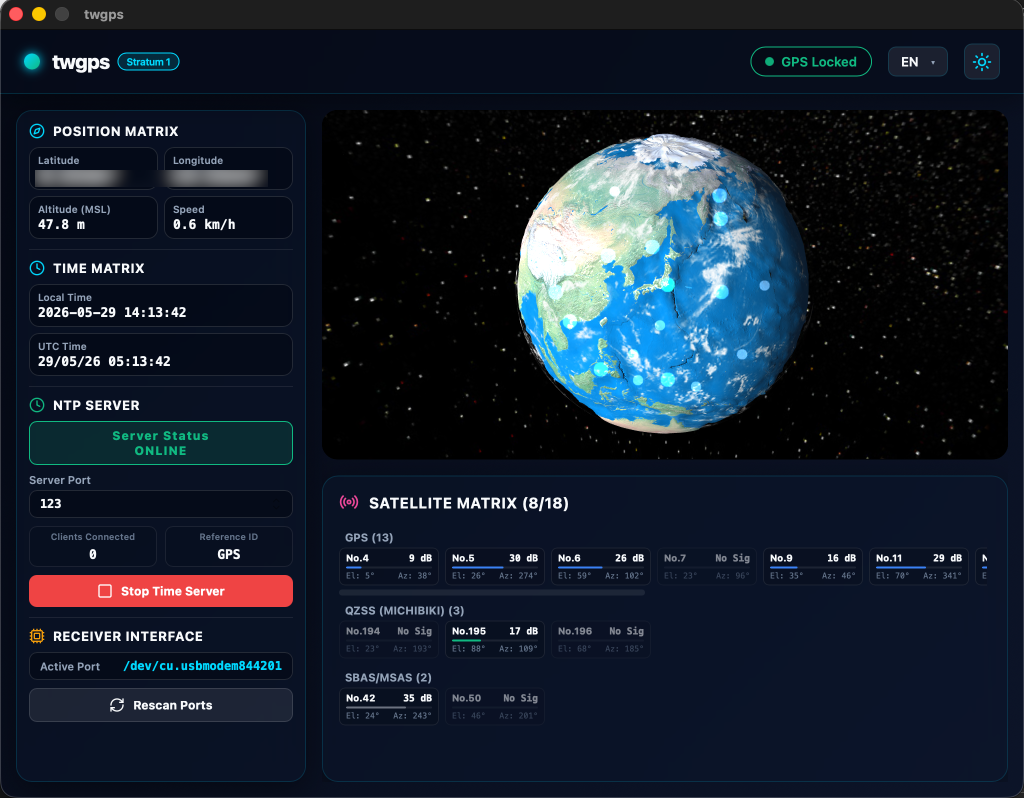
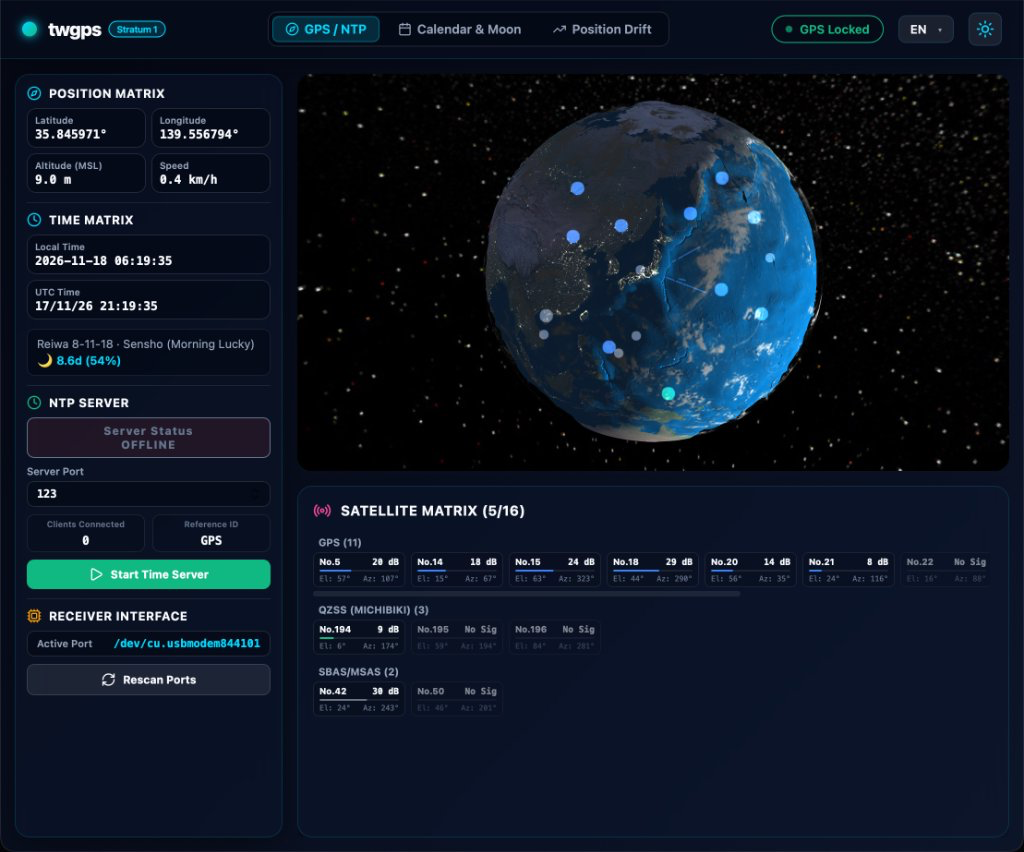
chore: release v0.2.0

diff --git a/frontend/src/i18n.svelte.js b/frontend/src/i18n.svelte.js
@@ -87,6 +87,105 @@ const translations = {
       trendLine: "Trend",
       noData: "Waiting for valid GPS fix to record position history...",
       note: "Vector components (ΔN, ΔE, ΔAlt) are averaged per bucket so random noise cancels out over long periods."
+    },
+    cal: {
+      liveMode: "Live (GPS / System)",
+      customMode: "Custom Date & Location",
+      resetLive: "Reset to Live Time",
+      dateTime: "Date / Time",
+      latitude: "Latitude",
+      longitude: "Longitude",
+      usingGpsLoc: "GPS Fix Location",
+      usingDefaultLoc: "Default Location (Tokyo)",
+      japaneseTitle: "Japanese Koyomi & Traditional Almanac",
+      worldTitle: "World Calendars (Fourmilab)",
+      wareki: "Wareki (Era)",
+      koki: "Koki (Imperial Year)",
+      kyureki: "Kyureki (Tenpo Lunisolar)",
+      leapMonth: "Leap ",
+      rokuyo: "Rokuyo",
+      solarTerm: "24 Solar Terms",
+      nextTerm: "Next",
+      zassetsu: "Zassetsu",
+      etoYear: "Year Eto",
+      etoMonth: "Month Eto",
+      etoDay: "Day Eto",
+      natchin: "Natchin",
+      kyuseiYear: "Year Nine Star",
+      kyuseiDay: "Day Nine Star",
+      junichoku: "Junichoku",
+      nijuhasshuku: "28 Mansions",
+      senjitsu: "Senjitsu (Auspicious/Inauspicious)",
+      none: "None",
+      gregorian: "Gregorian Calendar",
+      julian: "Julian Calendar",
+      julianDay: "Julian Day (JD)",
+      mjd: "Modified Julian Day (MJD)",
+      isoWeek: "ISO Week Date / Day of Year",
+      hebrew: "Hebrew Calendar",
+      islamic: "Islamic (Hijri) Calendar",
+      persian: "Persian (Iranian) Calendar",
+      bahai: "Bahá'í Calendar",
+      indian: "Indian National (Saka) Calendar",
+      french: "French Republican Calendar",
+      mayan: "Mayan Calendar (Long Count / Haab / Tzolkin)",
+      beforeEpoch: "Before Epoch"
+    },
+    moon: {
+      title: "Moon Phase & Position",
+      skyDomeTitle: "Sky Dome (Azimuth / Altitude)",
+      observerOrientation: "Observer Tilt",
+      northUpOrientation: "Celestial North Up",
+      age: "Moon Age",
+      noonAge: "Noon Moon Age",
+      days: "days",
+      illumination: "Illumination",
+      distance: "Geocentric Distance",
+      angularSize: "Angular Size",
+      azimuth: "Azimuth",
+      altitude: "Altitude",
+      belowHorizon: "Below Horizon",
+      aboveHorizon: "Above Horizon",
+      moonrise: "Moonrise",
+      moonTransit: "Moon Transit",
+      moonset: "Moonset",
+      sunrise: "Sunrise",
+      solarNoon: "Solar Noon",
+      sunset: "Sunset",
+      dayLength: "Day Length",
+      nextPhases: "Upcoming Moon Phases",
+      sunLabel: "Sun",
+      moonLabel: "Moon",
+      phases: {
+        new: "New Moon",
+        waxingCrescent: "Waxing Crescent",
+        firstQuarter: "First Quarter",
+        waxingGibbous: "Waxing Gibbous",
+        full: "Full Moon",
+        waningGibbous: "Waning Gibbous",
+        thirdQuarter: "Third Quarter",
+        waningCrescent: "Waning Crescent"
+      },
+      trad: {
+        shingetsu: "Shingetsu (New Moon)",
+        sengetsu: "Sengetsu",
+        mikazuki: "Mikazuki (Crescent)",
+        jogen: "Jogen (First Quarter)",
+        tokaya: "Tokaya",
+        jusanya: "Jusanya",
+        komochizuki: "Komochizuki",
+        mangetsu: "Mangetsu (Full Moon)",
+        izayoi: "Izayoi",
+        tachimachizuki: "Tachimachizuki",
+        imachizuki: "Imachizuki",
+        nemachizuki: "Nemachizuki",
+        fukemachizuki: "Fukemachizuki",
+        kagen: "Kagen (Third Quarter)",
+        ariakezuki: "Ariakezuki",
+        tsugomori: "Tsugomori",
+        waxing: "Waxing",
+        waning: "Waning"
+      }
     }
   },
   ja: {

diff --git a/README_ja.md b/README_ja.md
@@ -25,30 +25,50 @@
 
 ## 主な機能
 
-- **GPS 受信機の自動検出**: すべてのシリアル/USB ポートを一般的なボーレート（115200 および 9600 bps）で自動スキャンし、GPS 受信機を見つけて NMEA センチネルの解析を開始します。
-- **衛星情報の視覚表示**: 以下の衛星システムのアクティブな衛星番号（PRN）、仰角、方位角、信号強度（SNR）を追跡して表示します：
+- **GPS 受信機の自動検出**: すべてのシリアル/USB ポートを一般的なボーレート（115200 および 9600 bps）で自動スキャンし、GPS 受信機を見つけて NMEA センテンスの解析を開始します。
+- **衛星情報の視覚表示（3D 地球儀 / 2D スカイプロット）**: 以下の衛星システムのアクティブな衛星番号（PRN）、仰角、方位角、信号強度（SNR）をインタラクティブな 3D 地球儀（WebGL 非対応環境では自動的に 2D スカイプロットへフォールバック）で追跡・表示します：
   - **GPS** (アメリカ)
   - **GLONASS** (ロシア)
   - **Galileo** (欧州)
   - **BeiDou** (中国)
   - **みちびき / QZSS** (日本)
   - **SBAS / MSAS** (衛星静止基準補正システム)
+- **静止判定による速度ノイズ除去**: GPS 測位の微小な揺らぎによる速度のふらつきをフィルタリングし、静止状態を判定して「静止」バッジと安定した速度を表示します。
 - **内蔵 Stratum 1 NTP サーバー**:
   - GPS 衛星クロックに同期した高精度な時刻を提供。
   - デフォルトで標準の NTP ポートである `123` を使用（任意のポートに変更可能）。
   - 稼働時は基準識別子として `"GPS "` が設定された Stratum 1 NTP 応答を行います。
   - GPS 受信機の測位（3D Fix）が失われた場合は、自動的にシステム時刻を用いた応答へフォールバックします。
-- **モダンなユーザーインターフェース**: リアルタイムに更新されるレスポンシブなダッシュボードと、多言語対応（英語・日本語）を備えています。
+- **暦・月ビュー** *(v0.2.0 で追加)*:
+  - GPS の高精度な時刻・測位座標（または任意の日時・地点）に基づき、各種暦と天文情報を表示します。
+  - **世界の暦**: グレゴリオ暦、ユリウス暦、ユリウス通日（JD）、修正ユリウス日（MJD）、ISO 週日付、ユダヤ暦、イスラム暦（ヒジュラ暦）、ペルシャ暦、バハーイー暦、インド国定暦（サカ暦）、フランス共和暦、マヤ暦。
+  - **日本のこよみ・伝統暦注**: 和暦、皇紀、旧暦（天保暦準拠）、六曜、二十四節気・次節、雑節、干支（年・月・日）、納音、九星（年・日）、十二直、二十八宿、選日・吉凶日。
+  - **月の見え方と全天位置図**: 現在月齢・正午月齢、輝面比、地心距離、視直径、月相グラフィック、今後の主な月相、太陽・月の出没/南中時刻、および方位角・高度の全天位置図を表示します。
+- **長期位置安定性・ドリフト監視** *(v0.2.0 で追加)*:
+  - 測位履歴を記録し、基準点からの変位（南北 ΔN・東西 ΔE・高度 ΔAlt）を時間バケットごとに平均化することで、長期稼働時のランダム誤差を相殺し数ミリ単位の変位傾向を捉えます。
+  - **1時間（秒）**・**24時間（分）**・**30日（時間）**・**全期間（日）** のタイムスケール切り替え、2D 位置分布（東西×南北）散布図、年次推定移動トレンドの算出に対応。
+  - 基準点の再設定および **CSV 出力** 機能を備えています。
+- **モダンなユーザーインターフェース**: リアルタイムに更新されるレスポンシブなダッシュボード（ダーク/ライトテーマ対応）と、多言語対応（英語・日本語）を備えています。
+
+---
+
+## スクリーンショット
+
+### 暦・月ビュー
+![暦・月ビュー](images/screenshot_calendar_ja.png)
+
+### 長期位置安定性・ドリフト監視
+![長期位置安定性・ドリフト監視](images/screenshot_drift_ja.png)
 
 ---
 
 ## インストール方法
 
-GitHub の Releases ページから、ビルド済みのバイナリをダウンロードできます。
+[GitHub の Releases ページ](https://github.com/twsnmp/twgps/releases)から、ビルド済みのバイナリをダウンロードできます。
 
 - **Windows**: `.zip` アーカイブをダウンロードして展開し、`twgps.exe` を実行してください。
 - **Linux**: `.tar.gz` アーカイブをダウンロードして展開し、バイナリを実行してください。権限やグラフィックスの設定については、後述の [Linux での使用時の設定](#linux-での使用時の設定) をご覧ください。
-- **macOS**: `.app` またはディスクイメージをダウンロードし、アプリケーションフォルダーへコピーして実行してください。
+- **macOS**: `.pkg` インストーラー（または `.app` バンドル）をダウンロードし、`/Applications` フォルダーへインストールして実行してください。
 
 ---
 
@@ -60,8 +80,11 @@ GitHub の Releases ページから、ビルド済みのバイナリをダウン
 4. **測位の完了**: GPS 受信機が衛星を捕捉し測位（Fix）するまで待ちます。測位が完了すると、経緯度、高度、正確な UTC 時刻がダッシュボードに表示されます。
 5. **NTP サーバーの起動**:
    - 動作させたいポート番号を入力します（デフォルトは `123`）。
-   - **Start NTP** ボタンをクリックします。
+   - **タイムサーバー起動** ボタンをクリックします。
    - *注意*: Linux や macOS で標準の `123` ポートを使用するには、特権が必要です。後述の [Linux での使用時の設定](#linux-での使用時の設定) を参照してください。
+6. **追加ビューの活用**:
+   - **暦・月**: 上部ナビゲーションの「暦・月」タブに切り替えると、世界の暦、日本のこよみ、月齢や月の全天位置図を確認できます。
+   - **位置ドリフト**: 「位置ドリフト」タブでは、基準点からの長期的な位置変位の推移、2D 位置分布、年次推定移動トレンドの確認や CSV 出力を行えます。
 
 ---
 

diff --git a/README.md b/README.md
@@ -26,29 +26,49 @@ To use this software, you need a compatible USB NMEA GPS receiver.
 ## Features
 
 - **Automatic GPS Receiver Detection**: Automatically scans all serial/USB ports at common baud rates (115200 and 9600 bps) to locate your GPS receiver and start parsing NMEA sentences.
-- **Satellite Constellation Visualization**: Tracks and displays active satellites, elevation, azimuth, and Signal-to-Noise Ratio (SNR) for:
+- **Satellite Constellation Visualization (3D Globe / 2D Skyplot)**: Tracks and displays active satellites, elevation, azimuth, and Signal-to-Noise Ratio (SNR) on an interactive 3D globe (with automatic 2D skyplot fallback on environments without WebGL):
   - **GPS** (USA)
   - **GLONASS** (Russia)
   - **Galileo** (EU)
   - **BeiDou** (China)
   - **QZSS / Michibiki** (Japan)
   - **SBAS / MSAS** (Augmentation systems)
+- **Stationary Speed Detection**: Filters minor GPS position jitter to detect stationary state, displaying a `Stationary` badge and stabilized speed readout.
 - **Built-in Stratum 1 NTP Server**:
   - Serves high-precision time synced with GPS satellite clocks.
   - Defaults to the standard NTP port `123` (or customizable ports).
   - Flags Stratum 1 with the `"GPS "` reference identifier when active.
   - Automatically falls back to system time if the GPS receiver loses its 3D fix.
-- **Modern User Interface**: A responsive dashboard with real-time updates and multi-language support (English and Japanese).
+- **Calendar & Moon View** *(New in v0.2.0)*:
+  - Uses live GPS time and coordinates (or any custom date/time and location) to display astronomical and calendar details.
+  - **World Calendars**: Gregorian, Julian, Julian Day (JD), Modified Julian Day (MJD), ISO Week Date, Hebrew, Islamic (Hijri), Persian, Bahá'í, Indian National (Saka), French Republican, and Mayan calendars.
+  - **Japanese Koyomi (Traditional Almanac)**: Wareki (Era), Koki, Kyureki (Lunisolar), Rokuyo, 24 Solar Terms, Zassetsu, Sexagenary Cycle (Eto), Natchin, Nine Star Ki, Junichoku, 28 Mansions, and Senjitsu.
+  - **Lunar & Solar Sky Dome**: Displays moon age, illumination, geocentric distance, angular size, phase graphic, upcoming moon phases, rise/transit/set times, and an interactive sky dome chart for the Sun and Moon.
+- **Long-Term Position Stability & Drift Monitor** *(New in v0.2.0)*:
+  - Records GPS fix history and averages vector components (ΔN, ΔE, ΔAlt) per time bucket so random noise cancels out over long-term operation.
+  - Supports multiple time scales: **1 Hour (Sec)**, **24 Hours (Min)**, **30 Days (Hour)**, and **All Time (Day)**, along with a 2D scatter plot (East vs North) and annual linear trend estimation.
+  - Includes reference origin reset and **CSV export** for external analysis.
+- **Modern User Interface**: A responsive dashboard with dark/light themes, real-time updates, and multi-language support (English and Japanese).
+
+---
+
+## Screenshots
+
+### Calendar & Moon View
+![Calendar & Moon View](images/screenshot_calendar.png)
+
+### Long-Term Position Stability & Drift Monitor
+![Position Drift Monitor](images/screenshot_drift.png)
 
 ---
 
 ## Installation
 
-You can download pre-built binaries from the GitHub Releases page.
+You can download pre-built binaries from the [GitHub Releases](https://github.com/twsnmp/twgps/releases) page.
 
 - **Windows**: Download the `.zip` archive, extract it, and run `twgps.exe`.
 - **Linux**: Download the `.tar.gz` archive, extract it, and run the binary. See [Linux Setup](#linux-setup) below for important permission and graphics settings.
-- **macOS**: Download the `.app` or disk image and copy it to your Applications folder.
+- **macOS**: Download the `.pkg` installer (or `.app` bundle) and install `twgps` into your `/Applications` folder.
 
 ---
 
@@ -60,8 +80,11 @@ You can download pre-built binaries from the GitHub Releases page.
 4. **Acquire Fix**: Wait for the GPS receiver to obtain a 3D fix. The dashboard will display your latitude, longitude, altitude, and current UTC time.
 5. **Start the NTP Server**:
    - Enter the desired port (default is `123`).
-   - Click the **Start NTP** button.
+   - Click the **Start Time Server** button.
    - *Note*: Using port `123` on Linux or macOS requires elevated capabilities or root privileges for binding. See [Linux Setup](#linux-setup) below.
+6. **Explore Additional Views**:
+   - **Calendar & Moon**: Switch to the Calendar & Moon tab in the top navigation bar to view world calendars, Japanese Koyomi, moon phase details, and the solar/lunar sky dome.
+   - **Position Drift**: Switch to the Position Drift tab to monitor long-term position displacement relative to a reference origin, inspect 2D distribution, or export history to CSV.
 
 ---
 

diff --git a/CHANGELOG.md b/CHANGELOG.md
@@ -1,0 +1,35 @@
+# Changelog
+
+All notable changes to this project will be documented in this file.
+
+## [0.2.0] - 2026-11-18
+
+### Added
+- **Calendar & Moon View**:
+  - World calendars (Gregorian, Julian, Julian Day, MJD, ISO Week Date, Hebrew, Islamic/Hijri, Persian, Bahá'í, Indian National/Saka, French Republican, and Mayan).
+  - Japanese traditional almanac / Koyomi (Wareki, Koki, Kyureki/Tenpo, Rokuyo, 24 Solar Terms, Zassetsu, Sexagenary Cycle, Natchin, Nine Star Ki, Junichoku, 28 Mansions, and Senjitsu).
+  - Lunar and solar astronomy panel with moon age, illumination, distance, angular size, phase graphic, upcoming phases, rise/transit/set times, and an interactive sky dome chart.
+  - Supports both live GPS time/location and custom date/time/coordinate inspection.
+- **Long-Term Position Stability & Drift Monitor**:
+  - Persistent GPS position history recording relative to a configurable reference origin (ΔN, ΔE, ΔAlt, and horizontal distance).
+  - Multi-scale bucketed time-series views (`1 Hour (Sec)`, `24 Hours (Min)`, `30 Days (Hour)`, `All Time (Day)`), 2D position distribution scatter plot, and annual linear trend estimation.
+  - CSV export and reference origin reset.
+- **Stationary Speed Detection**:
+  - Filters minor GPS position jitter to detect stationary state and displays a `Stationary` / `静止` badge in the Position Matrix.
+
+### Fixed & Improved
+- Restored WebGL detection in `Globe.svelte` with automatic 2D skyplot fallback on environments without WebGL support.
+- Resolved serial port sniffing issues and `wails dev` port conflicts.
+- Prevented macOS `.app` bundle relocation in the installer package (`scripts/release-mac.sh`) so `twgps.app` installs reliably to `/Applications` and appears in Launchpad.
+- Updated Wails, Echo, Vite, `golang.org/x/net`, and frontend dependencies to address security vulnerabilities.
+- Set application product version metadata to `0.2.0` in `wails.json` and `frontend/package.json`.
+
+## [0.1.0] (tagged as v0.0.1)
+
+### Added
+- Initial release of `twgps`: cross-platform Stratum 1 NTP server powered by USB/Serial NMEA GPS receivers.
+- Automatic serial port scanning (115200 / 9600 bps) and NMEA parsing for GPS, GLONASS, Galileo, BeiDou, QZSS (Michibiki), and SBAS/MSAS.
+- Interactive 3D Globe / 2D Skyplot satellite visualization and SNR bar matrix.
+- Built-in NTP server with Stratum 1 `"GPS "` reference ID and system-clock fallback when 3D fix is lost.
+- Bilingual UI (English / Japanese) with dark and light themes.
+- Unit, integration, and Playwright E2E test suites.
